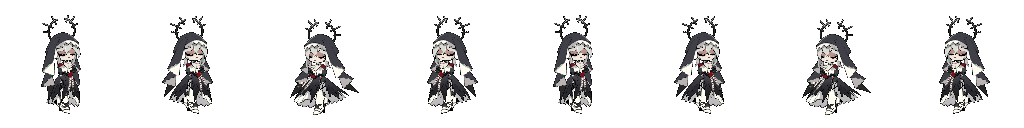
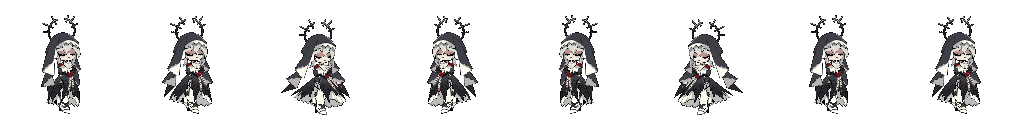
归溟替身抽搐修复 + 名册 / 图鉴 / 封面干员小人统一缩放与居中
- 替身待机 native_doll_idle：4 fps → 6 fps（60 帧，Idle_B 中段 0.62 秒摇摆不再采成正反交替）；doll_spin 整个连斩段播一遍（原每圈一遍、0.15 秒两次镜像）
- UI.card_place：名册卡 / 图鉴格子按全员统一参考尺寸取同一档倍数（3 / 2 / 1 / 0.75 / 0.5），脚底对齐卡中线、留在名字条之上，横向只平移；
  图鉴 / 选人舞台立绘按同一参考取倍数（长武器 / 大盾不再放大）
- 同 seed：归溟 seed 1 180 秒、seed 2 240 秒 --sptest 逐行相同；--auto 92 项 0 失败；图鉴 / 选人 / EA UI / 作战记录回归通过
- 改前改后截图：tools/probes/roster_card_shots.py

diff --git a/tools/probes/package_specter_doll_idle.py b/tools/probes/package_specter_doll_idle.py
@@ -1,0 +1,37 @@
+"""归溟幽灵鲨替身待机 native_doll_idle 改按 6 fps 采样（10-21 用户实测「替身抽搐」）。
+
+原条（dg export_doll.py）从 12 fps 源每 3 帧取 1（4 fps、40 帧）。Idle_B 中段（约 3.2–8.6 秒）是周期约 0.62 秒的摇摆，
+4 fps 采样每周期只有 2.5 帧，正反帧交替读成抽搐；进出该段的 6 像素升降也只剩一两帧、读成跳变。
+改为每 2 帧取 1（6 fps、60 帧，每周期约 3.75 帧），帧条宽 7680 px 仍在 8192 内。像素做法与 dg 相同（package_skalter_specter.doll_frames）。
+
+用法：python -X utf8 tools/probes/package_specter_doll_idle.py
+"""
+from pathlib import Path
+import json
+import sys
+import numpy as np
+from PIL import Image
+
+ROOT = Path(__file__).resolve().parents[2]
+sys.path.insert(0, str(ROOT / 'tools/probes'))
+from package_skalter_specter import doll_frames  # noqa: E402
+
+STEP = 2
+idx = list(range(0, 120, STEP))
+frames, m = doll_frames('Idle_B', idx)
+frames = [f.crop((32, 32, 160, 160)) for f in frames]   # 192 舞台 → 128 画布（原点 64,120）
+old = Image.open(ROOT / 'art/incoming/op_specter_unchained_native_doll@2x.png').convert('RGBA')
+assert np.array_equal(np.asarray(old.crop((0, 0, 128, 128))), np.asarray(frames[0])), '首帧与原交付不一致（像素做法漂移）'
+strip = Image.new('RGBA', (128 * len(frames), 128))
+for i, f in enumerate(frames):
+    strip.paste(f, (128 * i, 0))
+strip.save(ROOT / 'art/incoming/op_specter_unchained_native_doll@2x.png')
+path = ROOT / 'game/data/characters/specter_unchained.json'
+data = json.loads(path.read_text(encoding='utf-8'))
+sp = data['sprites']
+sp['native_doll_idle']['frames'] = len(frames)
+sp['native_doll_idle']['fps'] = len(frames) / float(m['duration'])
+sp['doll']['visual']['times'] = [m['sample_times'][i] for i in idx]
+sp['doll']['visual']['duration'] = m['duration']
+path.write_text(json.dumps(data, ensure_ascii=False, indent=1) + '\n', encoding='utf-8')
+print('doll idle', len(frames), 'frames', strip.size)

diff --git a/tools/probes/roster_card_shots.py b/tools/probes/roster_card_shots.py
@@ -1,0 +1,30 @@
+"""图鉴格子 / 选人名册卡截图（10-21 小人居中、统一缩放的改前改后对照）。
+
+用法：python -X utf8 tools/probes/roster_card_shots.py <游戏工作树根> <输出目录>
+窗口放到屏幕外（不打扰用户），带 -- 参数即静音。
+"""
+import os
+import sys
+sys.path.insert(0, os.path.join(os.path.dirname(os.path.abspath(__file__)), '..'))
+import godot_runner as gr  # noqa: E402
+
+root, out = os.path.abspath(sys.argv[1]), os.path.abspath(sys.argv[2])
+game = os.path.join(root, 'game')
+gr.ensure_imported(game)
+godot = gr.find_godot()
+SHOTS = {
+    'codex_desktop': ('1280x720', ['--unlockall', '--galleryshot=0,0,0,1.5', '--galleryid=irene'], 'shot_gallery_ui.png'),
+    'codex_phone': ('720x1480', ['--unlockall', '--touch', '--galleryshot=0,0,0,1.5', '--galleryid=irene'], 'shot_gallery_ui.png'),
+    'oppick_desktop': ('1280x720', ['--unlockall', '--opshot', '--opid=irene'], 'shot_oppick.png'),
+    'oppick_phone': ('1480x720', ['--unlockall', '--touch', '--opshot', '--opid=irene'], 'shot_oppick.png'),
+    'codex_hoshiguma': ('1280x720', ['--unlockall', '--galleryshot=0,0,0,1.5', '--galleryid=hoshiguma'], 'shot_gallery_ui.png'),
+    'oppick_wisadel': ('1280x720', ['--unlockall', '--opshot', '--opid=wisadel'], 'shot_oppick.png'),
+    'oppick_specter': ('1280x720', ['--unlockall', '--opshot', '--opid=specter_unchained'], 'shot_oppick.png'),   # 名册在后半段（选人 / 封面干员共用 roster_card）
+}
+only = sys.argv[3].split(',') if len(sys.argv) > 3 else None
+SHOTS = {k: v for k, v in SHOTS.items() if not only or k in only}
+for k, (res, args, fn) in SHOTS.items():
+    d = os.path.join(out, k)
+    os.makedirs(d, exist_ok=True)
+    gr.run_godot([godot, '--path', game, '--resolution', res, '--position', '-4000,0', '--', '--shotdir=' + d] + args, 120)
+    print(k, '好' if os.path.exists(os.path.join(d, fn)) else '缺', flush=True)

diff --git a/tools/probes/package_skalter_specter.py b/tools/probes/package_skalter_specter.py
@@ -218,7 +218,9 @@ def build():
     res[(op, 'doll_appear')] = (ap, {'frames': 8, 'fps': 32, 'frame_durations': [0.25 / 8] * 8})
     sp_, _ = doll_frames('Start_B', [4, 5, 6, 5])
     flipx = lambda im: im.transpose(Image.Transpose.FLIP_LEFT_RIGHT)
-    res[(op, 'doll_spin')] = ([sp_[0], sp_[1], flipx(sp_[2]), flipx(sp_[1]), sp_[0], sp_[1], flipx(sp_[2]), flipx(sp_[3])], {'frames': 8, 'fps': 16, 'fire': 2})
+    # 整个连斩段（spin 秒）只播一遍（10-21 原每圈一遍、0.15 秒内两次镜像读成抽搐）：三斩 hit_at + k × gap 落在帧 1 / 4 / 6，
+    # 张袍姿势正 → 反 → 正与锯环转向交替一致，全程只转两次身
+    res[(op, 'doll_spin')] = ([sp_[0], sp_[1], sp_[2], flipx(sp_[1]), flipx(sp_[0]), flipx(sp_[2]), sp_[0], sp_[3]], {'frames': 8, 'fps': 8 / 0.45, 'fire': 1})
     va, _ = doll_frames('Die_B', [0, 1, 3, 5, 7, 8, 10, 11])
     res[(op, 'doll_vanish')] = (va, {'frames': 8, 'fps': 8 / 0.3, 'frame_durations': [0.3 / 8] * 8})
 
@@ -243,7 +245,7 @@ DOC = {
     'specter_unchained.idle_s3': 'S3 期间待机画面（h3_anim_state 换条）：原作 Skill_3_Idle',
     'specter_unchained.doll_appear': '替身闪现的现身段（_e3_flash_draw，按 appear 秒数整条播）：原作 Start_B',
     'specter_unchained.doll_vanish': '替身闪现的消散段（_e3_flash_draw，按 burst 秒数整条播）：原作 Die_B',
-    'specter_unchained.doll_spin': '替身连斩旋身（原作无此动作）：Start_B 张袍姿势 + 镜像交替；每圈整条播一遍，张袍帧 4 对齐 hit_at',
+    'specter_unchained.doll_spin': '替身连斩旋身（原作无此动作）：Start_B 张袍姿势 + 镜像；整个连斩段播一遍，三斩落在帧 1 / 4 / 6（正 / 反 / 正，与锯环转向一致）',
 }
 
 
